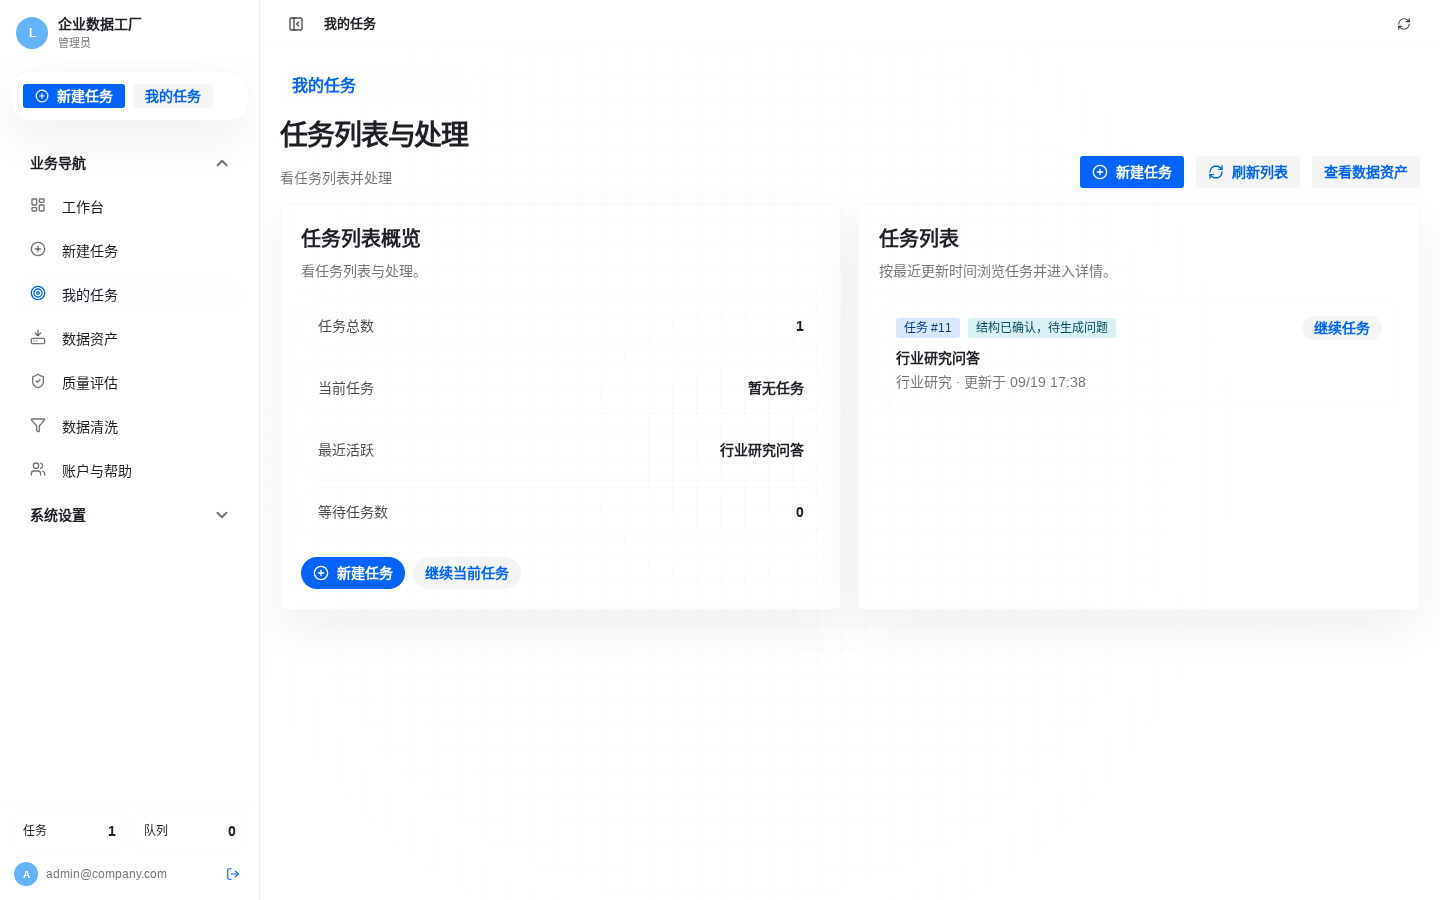
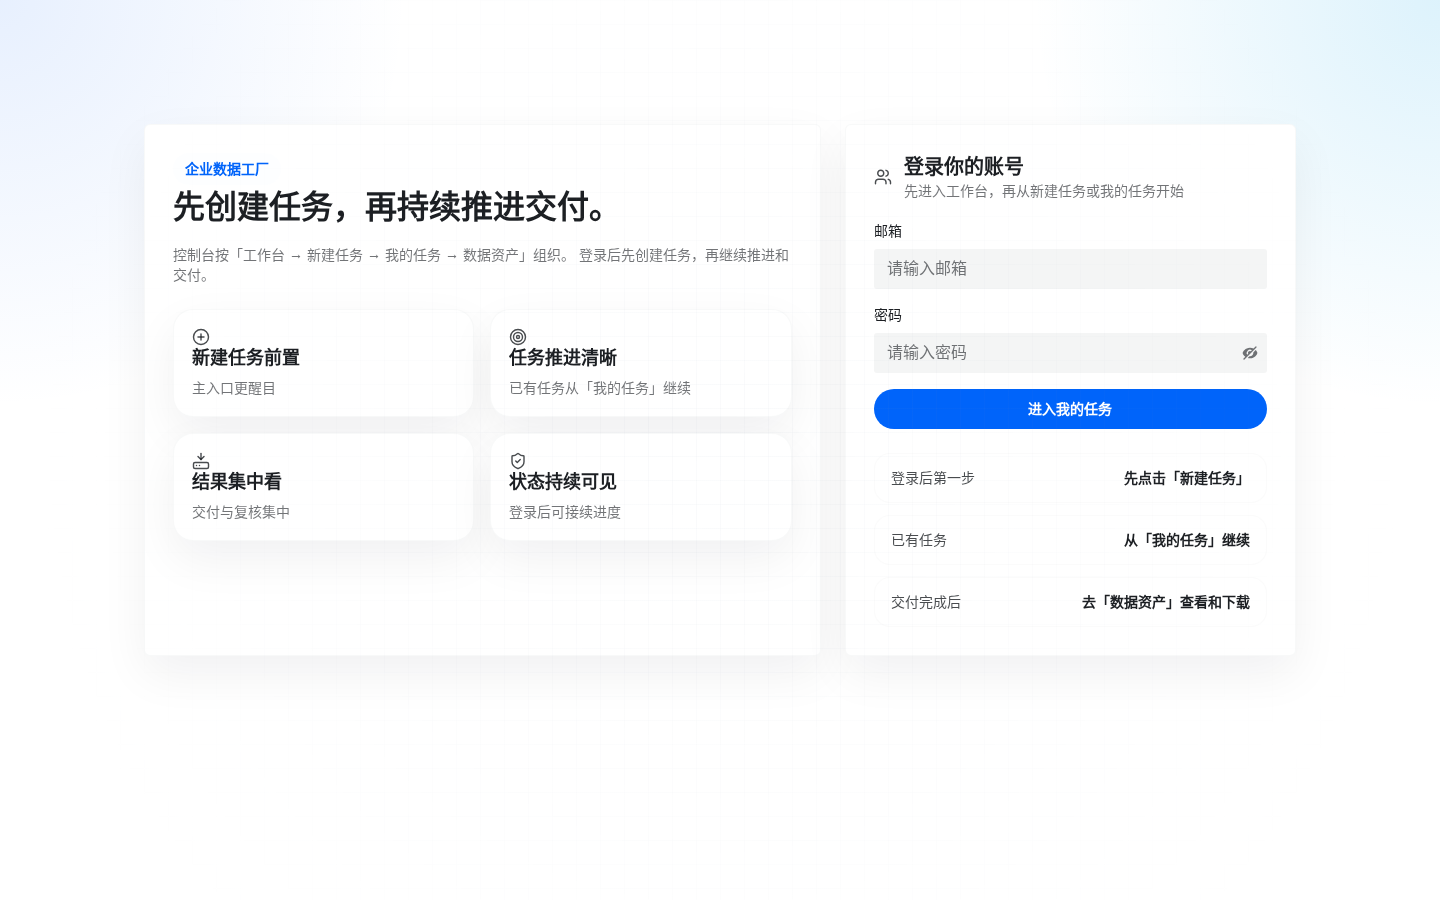
fix(docs): 修正登录页截图与文档渲染，补截图清单
- 01-login.png 原截到的是登录后任务页（与 04-tasks.png 重复），
  改为在登录前捕获
- 修正 ux-improvements.md 中误写成 ```text 的闭合围栏：
  CommonMark 不允许闭合围栏带 info string，导致 §3~§4.0 共 78 行
  被吞成一个代码块、`## 4. 验证` 标题消失
- 新增 manifest.json，记录每页 URL/正文片段/md5，供事后核对
- 如实记录截图事故与一次错误定因，并标注下载校验缺 e2e

引用 issue #84 / #90 / #98

diff --git a/docs/guides/ux-improvements.md b/docs/guides/ux-improvements.md
@@ -197,7 +197,7 @@
 改造后：PageHeader actions = [返回当前任务] [返回我的任务] [刷新结果] [开始生成题目]
         ─────────────────────────────────────────────
         [下一步：答案内容 →]  本阶段已完成，可直接进入「答案内容」。
-```text
+```
 
 ### 3.2 任务详情：从静态文案到真实进度
 
@@ -219,7 +219,7 @@
   • 问题生成：已生成 100 条问题
   • 推理生成：已生成 37 条推理
   ...
-```text
+```
 
 ### 3.3 新建任务：从 6 字段平铺到模板预填
 
@@ -238,7 +238,7 @@
         │ 目标 50 条  │ 目标 30 条 │ 目标 30 条    │
         └────────────┴────────────┴───────────────┘
         任务主题和目标规模是必填项；其余按需展开。
-```text
+```
 
 ---
 
@@ -248,9 +248,9 @@
 |---|---|
 | `tsc --noEmit` | 通过（无输出） |
 | `npm run build -w apps/web-user` | `✓ built in 37.58s` |
-| 真实浏览器逐页截图 | 24 张，全部渲染正常 |
+| 真实浏览器逐页截图 | 24 张，见 `docs/assets/ux-after/`（含 `manifest.json` 逐页 URL 与 md5） |
 | 模板预填 | 实测点「行业研究问答」→ 主题自动填「行业研究」、规模填 50 |
-| 「下一步」按钮 | 实测阶段页显示「下一步：答案内容」 |
+| 「下一步」按钮 | 实测 5 个阶段页全链路正确：问题生成 → 答案内容 → 质量评分 → 导出交付 → 建议 |
 | 「从模板开始」区块 | 实测 DOM 渲染出 4 个模板及描述、标签、主题与目标条数 |
 | 下载校验单元测试 | `npm test -w apps/web-user` → 6/6 通过（新增） |
 
@@ -280,14 +280,46 @@ $ npm test -w apps/web-user
 > 本次演示数据集尚未走到导出阶段，因此 UI 路径未在浏览器中走通。
 > 当前证据为：单元测试（强）+ 生产构建通过（中），**不含**浏览器端到端（缺）。
 
-### 4.1 已知限制（如实记录）
+### 4.1 截图事故（如实记录，含一次错误定因）
+
+首版截图脚本只截图、**不校验**，产出了一张错图：`01-login.png` 截到的不是登录页，
+而是**登录后**的任务页（md5 与 `04-tasks.png` 完全相同）。因此首版 24 张中实际只有
+23 张不同图，重复组为 `01-login = 04-tasks`。
+
+**真实根因**：脚本顺序错了——先登录、后去拍登录页，而 `/login` 在已登录态下会重定向到
+`/console/tasks`，于是「登录页」拍成了任务页。不是什么环境异常。
+
+**需要记录的自我修正**：首次排查时，我根据「肉眼读图」认定是 `04-tasks.png` 截成了登录页，
+并给出了「截图进行中容器被并发重建、会话失效被重定向」的根因。这两个说法**都是错的**：
+
+1. `04-tasks.png` 一直是正确的任务页；
+2. 那个「并发重建」的故事是我根据时间线**编造的**，没有任何证据支持。
+
+直到用 `git show HEAD:...` 比对提交版 md5 才纠正。教训有两条：
+
+- **不定无证据的因**。听起来合理的时间线不等于证据；
+- **不要靠肉眼看图下结论**。md5 与 DOM 断言是确定性的，肉眼读图不是。
+
+修正后的脚本（`screenshot2.mjs`）加了三道约束：
+
+1. 登录页在**登录前**捕获，避免被重定向掉包；
+2. 每页截图前断言**不在登录页**（检测密码框）且正文 ≥60 字，失败即非零退出；
+3. 输出 `manifest.json`（每页 URL / 正文片段 / md5）并做唯一性校验。
+
+重跑后：24 张、23 唯一，唯一重复组为预期内的 `06-evaluation = 21-eval-dimensions`
+（质量评估默认页签即「维度管理」），且每张文件 md5 与 `manifest.json` 一致、
+无任何页面落回登录页。
+
+### 4.2 已知限制（如实记录）
 
 1. **未新增后端接口**：遵守冻结契约 §1.1「本轮不新增任何 HTTP 路由」，模板仅为前端常量，
    未落库；`failureReason` 因后端无该字段而未展示（属 #83 范围）。
 2. **`canGenerate*` 的判据是"可尝试"而非"必然成功"**：例如问题生成还要求 level=2 方向存在
    （见 #65），该前置条件后端在 `routes_questions_v2.go:117` 校验，前端暂未同步。
 3. **未做响应式截图**：所有截屏为 1440×900 桌面视口。
-4. **未合并**：本分支等待评审，未执行 `git push`，未创建 PR。
+4. **下载校验缺浏览器端到端验证**：交付物下载按钮需先有导出的 artifact，演示数据集未走到
+   导出阶段；当前证据为单元测试（6/6）+ 构建通过，**不含**浏览器 e2e。
+5. **未合并**：本分支等待评审，未执行 `git push`，未创建 PR。
 
 ---
 
